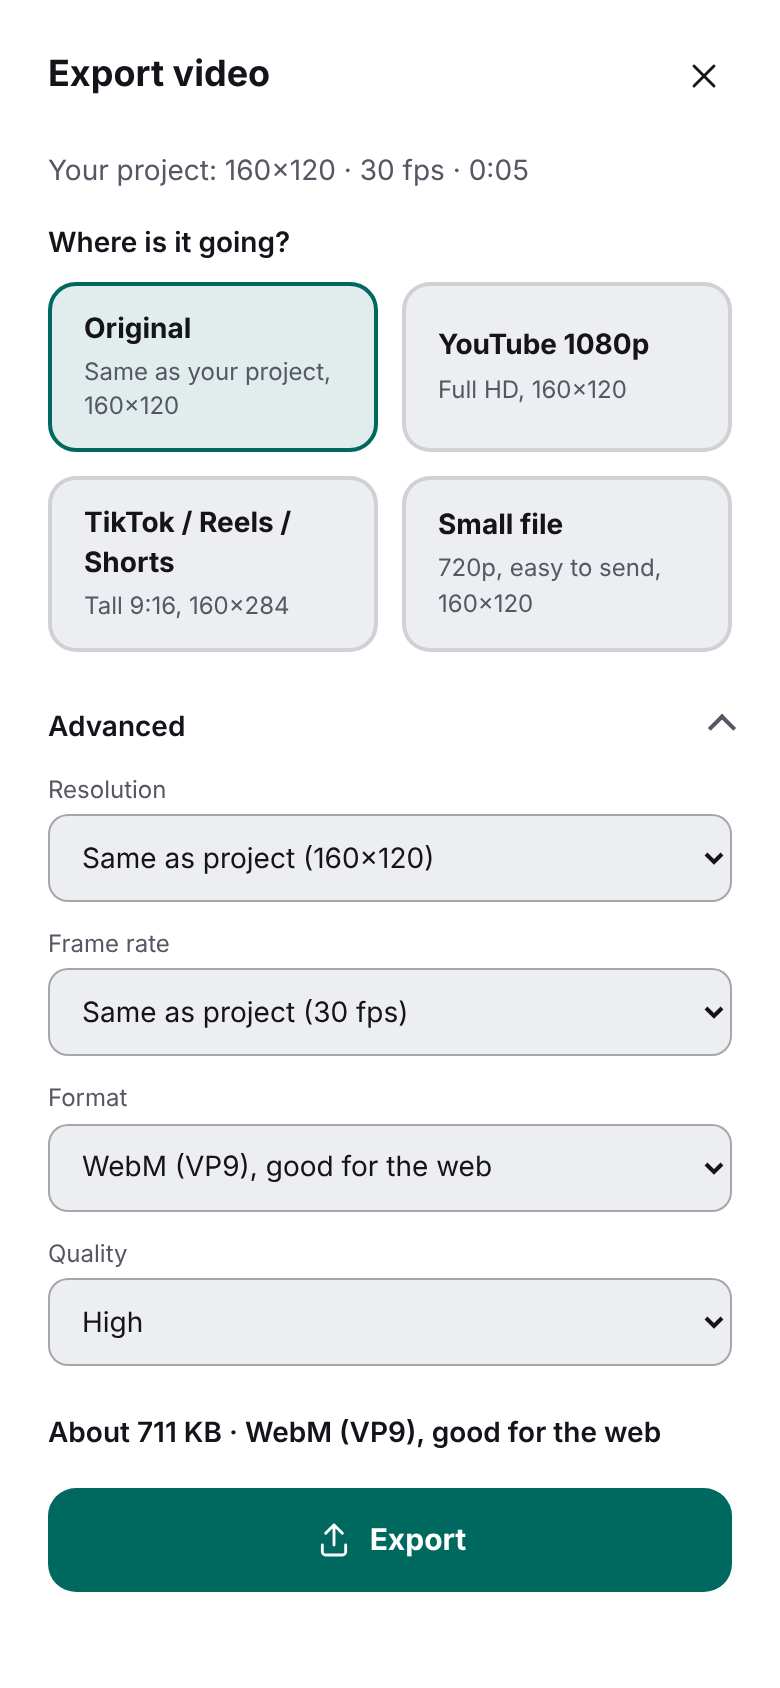
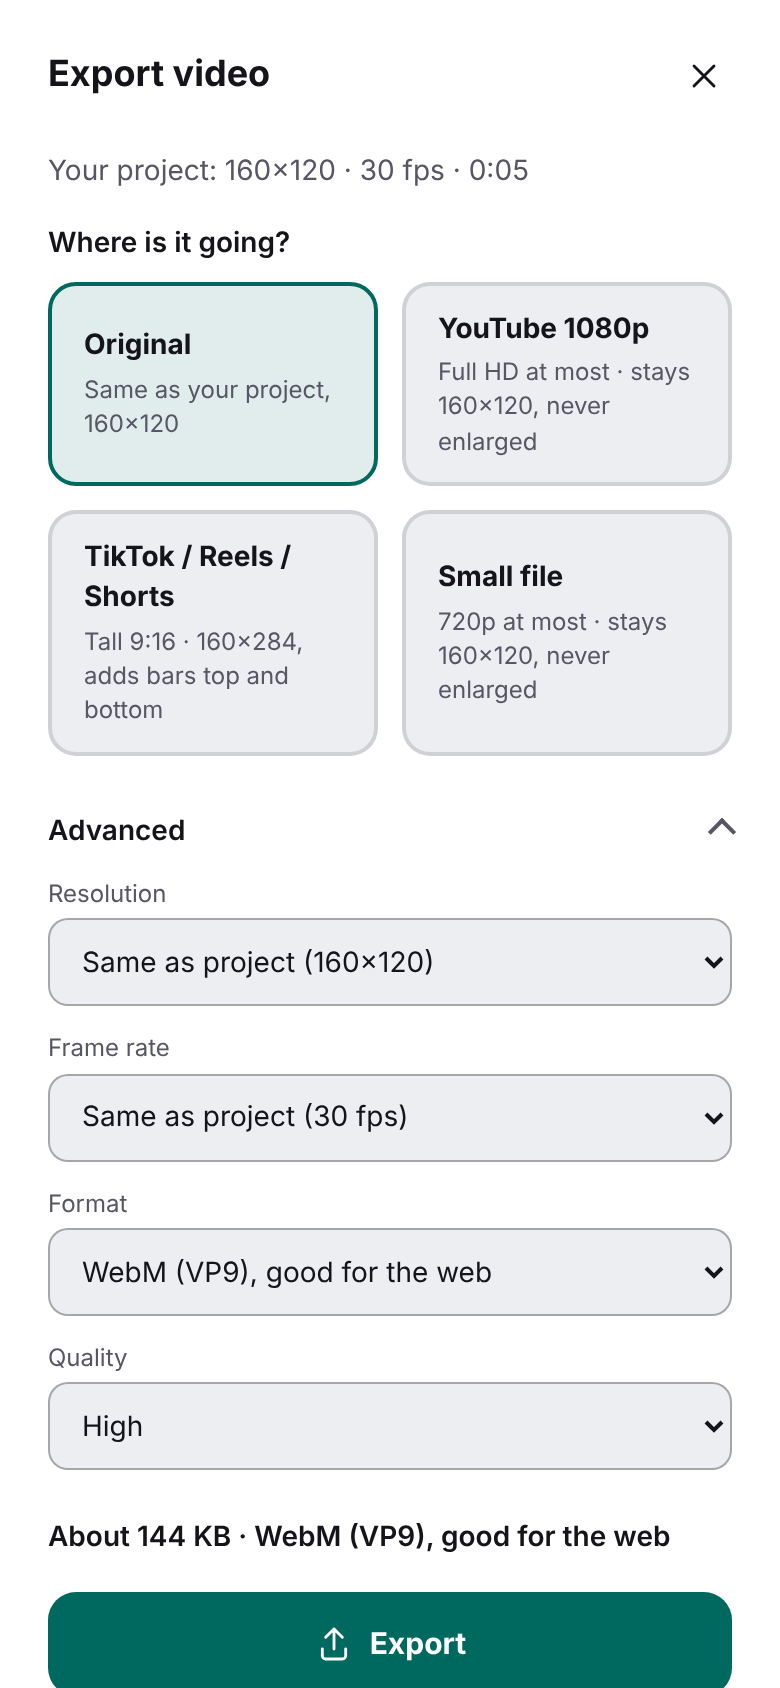
Export dialog: honest preset labels and a calibrated size estimate (#46)
Preset chips say when the output stays smaller than the preset and when 9:16 adds bars; the size estimate drops the 1 Mbps floor that inflated tiny projects.

Claude-Session: https://claude.ai/code/session_01VHHsob1XuBmToWZ1P21J4B

diff --git a/tests/unit/export-dialog.test.ts b/tests/unit/export-dialog.test.ts
@@ -7,7 +7,7 @@ import type { CodecProbe } from "../../packages/engine-client/src/export/presets
 import type { Project } from "../../packages/engine-client/src/model.generated";
 import { canShareFile, saveFile, shareFile } from "../../apps/web/src/export/deliver";
 import {
-  buildSettings, errorKey, estimateBytes, etaSeconds, formatBytes, formatClock, fpsSteps, loadRemembered, pickFormat, presetChoice, saveName, resolutionSteps, saveRemembered, scaledSize, usableCustom, videoBitrate,
+  buildSettings, errorKey, estimateBytes, etaSeconds, formatBytes, formatClock, fpsSteps, loadRemembered, pickFormat, presetChoice, presetHint, saveName, resolutionSteps, saveRemembered, scaledSize, usableCustom, videoBitrate,
   type Choice, type Source,
 } from "../../apps/web/src/export/model";
 
@@ -191,4 +191,28 @@ test("share: only offered when the browser can take the file; closing the sheet 
   assert.equal(await shareFile(file, "x", { share: async () => undefined }), "shared");
   assert.equal(await shareFile(file, "x", { share: async () => { throw new DOMException("no", "AbortError"); } }), "dismissed");
   await assert.rejects(shareFile(file, "x", { share: async () => { throw new DOMException("no", "NotAllowedError"); } }));
+});
+
+test("preset hints never promise more than the output delivers", () => {
+  const tiny: Source = { width: 160, height: 120, fps: 30, seconds: 5 };
+  assert.deepEqual(presetHint("youtube", tiny), { key: "export.preset.youtube.capped", values: { size: "160×120" } });
+  assert.deepEqual(presetHint("small", tiny), { key: "export.preset.small.capped", values: { size: "160×120" } });
+  assert.equal(presetHint("youtube", { ...HD, width: 3840, height: 2160 }).key, "export.preset.youtube.hint");
+  assert.deepEqual(presetHint("youtube", HD), { key: "export.preset.youtube.hint", values: { size: "1920×1080" } });
+  assert.equal(presetHint("small", HD).key, "export.preset.small.hint");
+  assert.equal(presetHint("small", SMALL).key, "export.preset.small.hint"); // 720p source: exactly 720p
+  // 9:16 from a wide or square project has bars; from a portrait project it fills the frame
+  assert.equal(presetHint("vertical", HD).key, "export.preset.vertical.bars");
+  assert.equal(presetHint("vertical", { ...HD, width: 1080, height: 1080 }).key, "export.preset.vertical.bars");
+  assert.equal(presetHint("vertical", PHONE).key, "export.preset.vertical.hint");
+});
+
+test("size estimate follows codec bits per pixel with no floor that inflates tiny frames", () => {
+  const tiny: Source = { width: 160, height: 120, fps: 30, seconds: 5 };
+  const c = presetChoice("original", tiny);
+  const bytes = estimateBytes(c, tiny, OPT("webm-vp9"));
+  assert.ok(bytes < 200_000, `${bytes}`); // the 1 Mbps floor gave about 705 KB for a file that came out at 182 KB
+  // 1080p30 VP9 high: 1920*1080*30*0.075 = 4.67 Mbps video + 128 kbps audio over 60 s
+  assert.equal(estimateBytes(presetChoice("original", HD), HD, OPT("webm-vp9")), Math.round(((4_665_600 + 128_000) * 60) / 8));
+  assert.ok(videoBitrate({ ...c, width: 7680, height: 4320 }, HD, "h264") <= 80_000_000);
 });

diff --git a/apps/web/src/export/model.ts b/apps/web/src/export/model.ts
@@ -1,6 +1,6 @@
 /** Export dialog logic with no React and no DOM: presets, sizes, bitrates, the size estimate, formatting, the remembered choice, and error mapping.
  *  Unit-tested in tests/unit/export-dialog.test.ts. Rules: docs/features/export-dialog.md. */
-import { defaultVideoBitrate, ExportError, type ExportErrorCode, type ExportFormatId, type ExportFormatOption, type ExportSettings } from "@app/engine-client";
+import { ExportError, type ExportErrorCode, type ExportFormatId, type ExportFormatOption, type ExportSettings } from "@app/engine-client";
 
 export type PresetId = "original" | "youtube" | "vertical" | "small";
 export type QualityId = "high" | "medium" | "low";
@@ -71,8 +71,10 @@ export function presetChoice(id: PresetId, src: Source): Choice {
 export const outputFps = (c: Choice, src: Source): number => c.fps ?? src.fps;
 
 export function videoBitrate(c: Choice, src: Source, codec: ExportFormatOption["videoCodec"]): number {
-  const name = codec === "h264" ? "avc" : codec;
-  return Math.max(500_000, Math.round(defaultVideoBitrate(name, c.width, c.height, outputFps(c, src)) * QUALITY_FACTOR[c.quality]));
+  // Bits per pixel per frame (ADR 0004). No 1 Mbps floor like the engine default: on a tiny frame that floor made the estimate several times too big.
+  const bpp = codec === "h264" ? 0.1 : codec === "vp9" ? 0.075 : 0.06;
+  const rate = c.width * c.height * outputFps(c, src) * bpp * QUALITY_FACTOR[c.quality];
+  return Math.min(80_000_000, Math.max(100_000, Math.round(rate)));
 }
 
 export const audioBitrate = (audio: "aac" | "opus"): number => (audio === "aac" ? 192_000 : 128_000);
@@ -178,4 +180,17 @@ export const isCancel = (e: unknown): boolean => e instanceof ExportError && e.c
 export function saveName(internal: string, date: Date = new Date()): string {
   const ext = internal.includes(".") ? internal.slice(internal.lastIndexOf(".")) : "";
   return `OverCut export ${date.toISOString().slice(0, 10)}${ext}`;
+}
+
+/** The chip's second line, as a message key plus values, so it never promises more than the output delivers. */
+export function presetHint(id: PresetId, src: Source): { key: string; values: { size: string } } {
+  const c = presetChoice(id, src);
+  const size = `${c.width}×${c.height}`;
+  const short = Math.min(src.width, src.height);
+  switch (id) {
+    case "original": return { key: "export.preset.original.hint", values: { size } };
+    case "youtube": return { key: short < 1080 ? "export.preset.youtube.capped" : "export.preset.youtube.hint", values: { size } };
+    case "small": return { key: short < 720 ? "export.preset.small.capped" : "export.preset.small.hint", values: { size } };
+    case "vertical": return { key: src.width / src.height > 0.57 ? "export.preset.vertical.bars" : "export.preset.vertical.hint", values: { size } };
+  }
 }

diff --git a/apps/web/src/export/ExportDialog.tsx b/apps/web/src/export/ExportDialog.tsx
@@ -8,7 +8,7 @@ import { TICKS } from "../media/plan";
 import { sequenceView } from "../PreviewPanel";
 import { useProjectStore, useStore } from "../store/projectStore";
 import { canShareFile, saveFile, shareFile } from "./deliver";
-import { QUALITIES, PRESET_IDS, buildSettings, errorKey, estimateBytes, etaSeconds, formatBytes, formatClock, fpsSteps, loadRemembered, outputFps, pickFormat, presetChoice, resolutionSteps, saveName, saveRemembered, usableCustom, type Choice, type PresetId, type QualityId, type Source } from "./model";
+import { QUALITIES, PRESET_IDS, buildSettings, errorKey, estimateBytes, etaSeconds, formatBytes, formatClock, fpsSteps, loadRemembered, outputFps, pickFormat, presetChoice, presetHint, resolutionSteps, saveName, saveRemembered, usableCustom, type Choice, type PresetId, type QualityId, type Source } from "./model";
 import { useExport, type ExportState } from "./useExport";
 
 const probes = new Map<string, Promise<ExportFormats>>();
@@ -201,12 +201,12 @@ function Setup({ src, locale, onStart }: { src: Source; locale: string; onStart(
       <fieldset className="export-presets">
         <legend>{t("export.presets")}</legend>
         {offered.map((id) => {
-          const c = presetChoice(id, src);
+          const hint = presetHint(id, src);
           return (
             <label key={id} className="export-chip-choice" data-checked={preset === id}>
               <input type="radio" name="export-preset" value={id} checked={preset === id} onChange={() => pickPreset(id)} data-testid={`export-preset-${id}`} />
               <strong>{t(`export.preset.${id}`)}</strong>
-              <span>{t(`export.preset.${id}.hint`, { size: shape(c) })}</span>
+              <span>{t(hint.key, hint.values)}</span>
             </label>
           );
         })}

diff --git a/tests/smoke/export-dialog.spec.ts b/tests/smoke/export-dialog.spec.ts
@@ -64,13 +64,12 @@ test("a chosen preset is remembered, and Advanced shows a live size", async ({ p
   await ready(page);
   await page.getByTestId("export-open").click();
   const est = page.getByTestId("export-estimate");
-  const before = await est.innerText();
   await page.getByTestId("export-preset-small").check({ force: true });
   await expect(page.getByTestId("export-preset-small")).toBeChecked();
   await page.getByText("Advanced").click();
   await expect(page.getByTestId("export-quality")).toBeVisible();
-  await page.getByTestId("export-quality").selectOption("low");
-  await expect(est).not.toHaveText(before);
+  await page.getByTestId("export-quality").selectOption("low"); // the 160x120 fixture is at the minimum bitrate, so the figure cannot move here; scaling is a unit test
+  await expect(est).toContainText(/About .* (MB|KB)/);
   await expect(page.getByTestId("export-preset-small")).not.toBeChecked(); // an Advanced change makes it a custom choice
   await page.getByTestId("export-preset-small").check({ force: true }); // picking the chip again resets Advanced to the preset
   await expect(page.getByTestId("export-quality")).toHaveValue("medium");

diff --git a/docs/features/export-dialog.md b/docs/features/export-dialog.md
@@ -9,9 +9,10 @@ Code: `apps/web/src/export/` (`ExportDialog.tsx` UI, `model.ts` pure logic, `use
   - **YouTube 1080p**: short side 1080 (1920×1080), frame rate capped at 60.
   - **TikTok / Reels / Shorts**: 9:16, up to 1080×1920. A wider project is placed inside the tall frame with black bars (shown as a note); reframing comes with the aspect-ratio work, not here.
   - **Small file**: 720p, at most 30 fps, quality Medium (60% of the default bitrate).
+  - The chip's second line is honest: when the project is smaller than the preset it says so ("Full HD at most · stays 160×120, never enlarged"), and the 9:16 chip says "adds bars top and bottom" for a wide or square project (`presetHint` in `model.ts`).
   - Presets only shrink: a 720p project exported as "YouTube 1080p" stays 720p (no upscaling).
   - A preset is offered only if `probeExportFormats` finds at least one format this device can encode at that size and rate. If none can, the dialog says so plainly and the button is not offered.
-- **Advanced** (a disclosure): Resolution (the project's own plus standard steps below it), Frame rate (project's own plus 60/50/30/25/24 below it), Format (only the formats that pass the probe: MP4 H.264, WebM VP9, WebM AV1; a format whose audio falls back to Opus in MP4 is marked "limited support"), Quality (High 100%, Medium 60%, Low 35% of the default bitrate for the size). A **live size estimate** ("About 14 MB · MP4 (H.264)") is shown under the controls: target video bitrate plus audio bitrate times the length. Touching any Advanced control unselects the chips (the choice is "custom").
+- **Advanced** (a disclosure): Resolution (the project's own plus standard steps below it), Frame rate (project's own plus 60/50/30/25/24 below it), Format (only the formats that pass the probe: MP4 H.264, WebM VP9, WebM AV1; a format whose audio falls back to Opus in MP4 is marked "limited support"), Quality (High 100%, Medium 60%, Low 35% of the default bitrate for the size). A **live size estimate** ("About 14 MB · MP4 (H.264)") is shown under the controls: target video bitrate (bits per pixel per frame by codec x quality, no minimum) plus audio bitrate, times the length. It is the encoder's target; easy footage comes out smaller. A live refinement from bytes written is not done (the muxer writes in 4 MiB blocks, so short exports report nothing until the end). Touching any Advanced control unselects the chips (the choice is "custom").
 - **Progress view.** Percentage, a progress bar (`role=progressbar`), "N of M frames", "About 12 seconds left" (from the engine's ETA; "Working out the time left…" for the first second, "Finishing the file…" in the last step). **Cancel export** calls `job.cancel()`: the worker closes the encoders and deletes the partial file; the dialog returns to the settings with the same choices. **Keep browsing** (also Esc and the close button while exporting) tucks the dialog into the top-bar chip; the export keeps running. While exporting the project store is read-only (`ProjectStore.readOnly`): edits, undo and redo are refused, while playback, scrubbing and selection work; the progress view says so. The export snapshots the project at start, so the file never contains half of an edit.
 - **Done view.** File name, size, length, format. **Save** uses the File System Access save picker where it exists (`showSaveFilePicker`, the file is streamed to disk, not read into memory), else a normal download. **Share** appears only when `navigator.canShare({ files })` accepts the file (phones). A warning shows when the container/codec combination has limited player support. "Export again" returns to the settings; closing frees the temporary file. If the export finishes while the dialog is tucked away, it reopens by itself and announces it.
 - **Errors** are plain sentences with a retry; the engine's own message is under "Technical details". Out of storage -> "There isn't enough free storage..."; encoder error -> "The video encoder stopped unexpectedly..."; unreadable clip -> "reconnect it in the Media panel"; desktop app -> "not ready yet" (`not_yet` until native encode, M1-015). "Try again" re-runs the same settings; "Change settings" goes back. A cancelled export is not an error.
